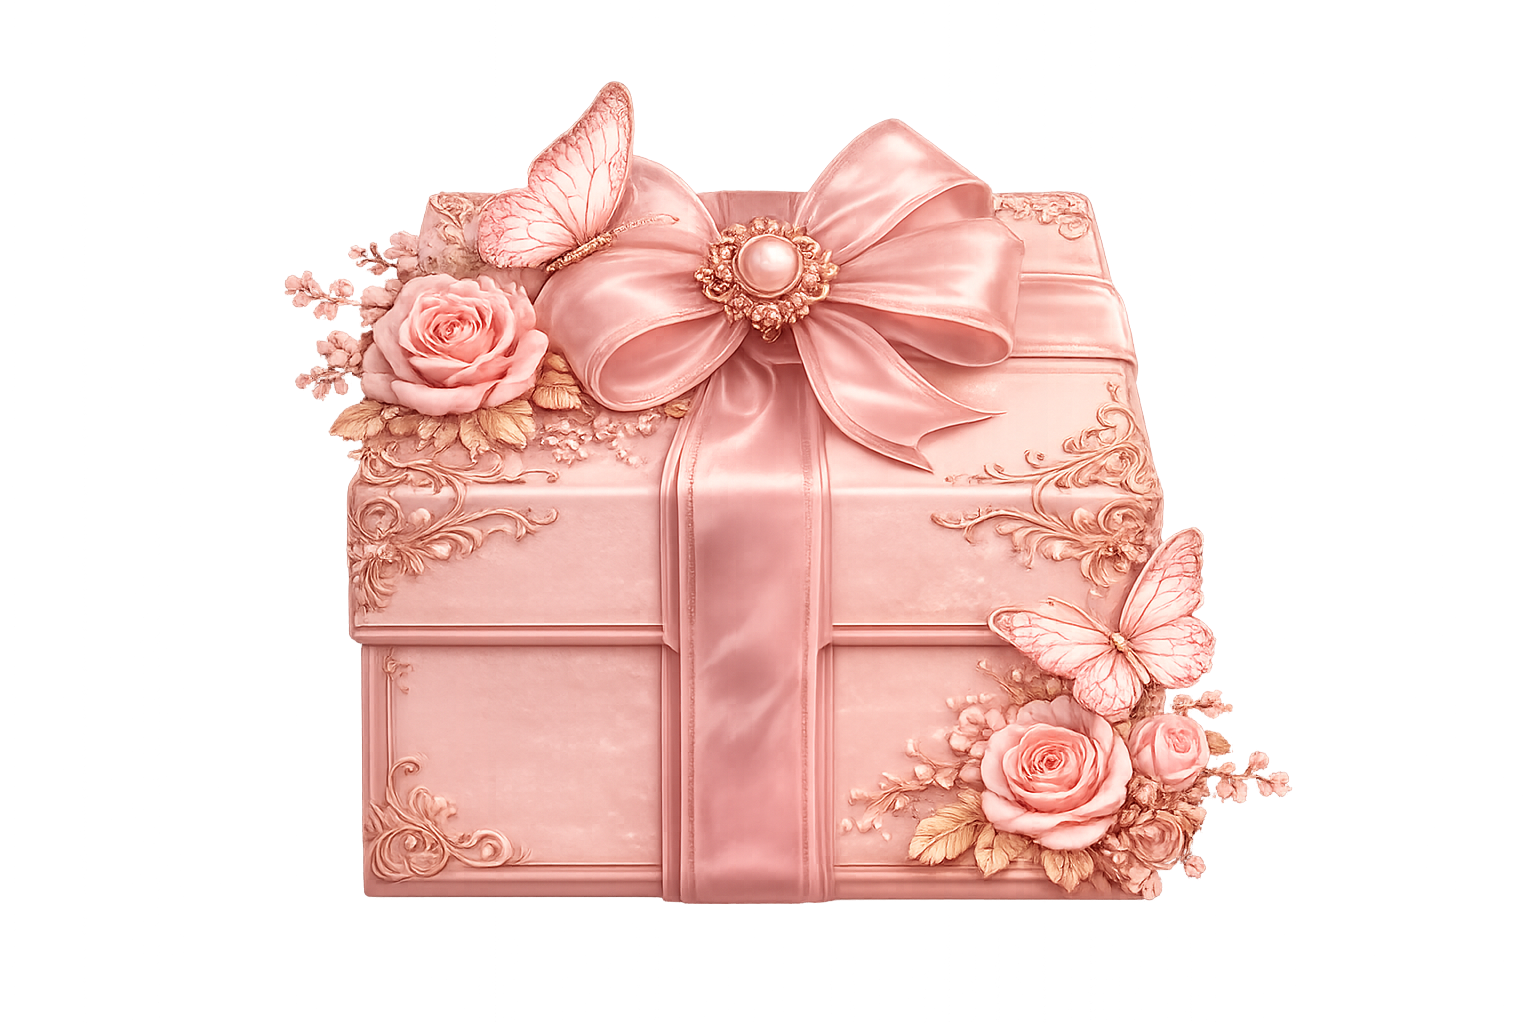
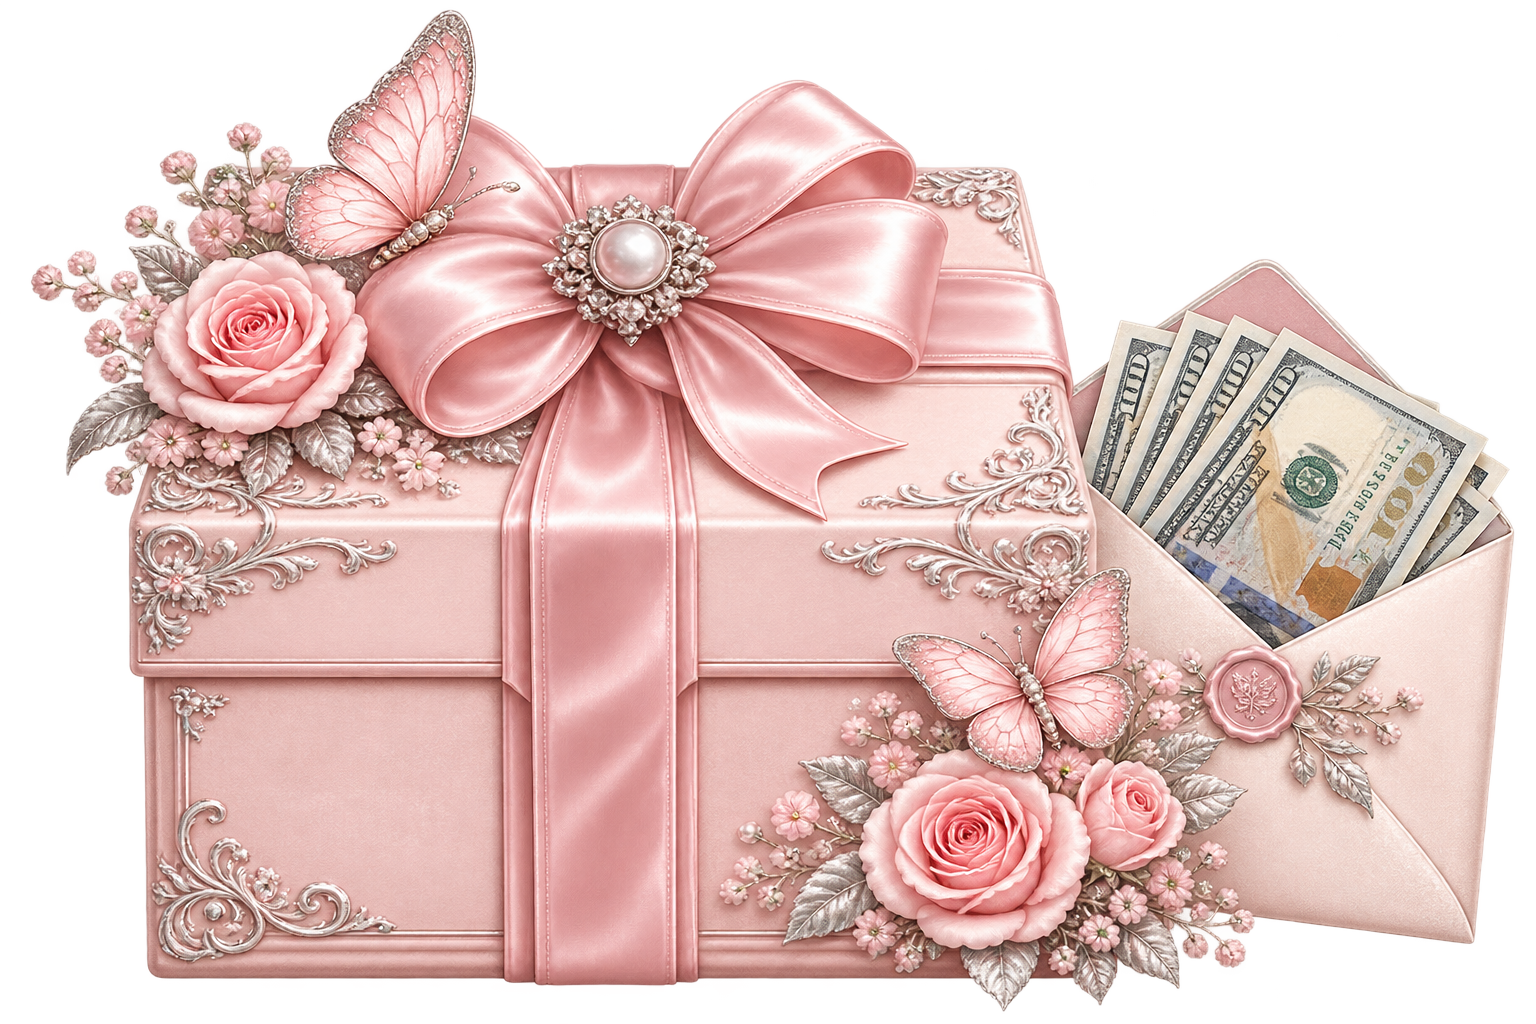
“Miercoles_19”

diff --git a/invi_julio/fullroyal_rosayplata_Krystel/invitacion.html b/invi_julio/fullroyal_rosayplata_Krystel/invitacion.html
@@ -1245,7 +1245,7 @@ background-size: cover;
 <section id="regalos">
       <div class="content">
       <div align="center"><img src="img/regalos.png" width="100%" alt="Regalos"></div>
-        <div class="section-title-script reveal">Mesa de Regalos</div>
+        <div class="section-title-script reveal">Mesa de Regalos y Lluvia de Sobres</div>
         <div class="flourish"></div>
 
         <div class="gift-item reveal">
